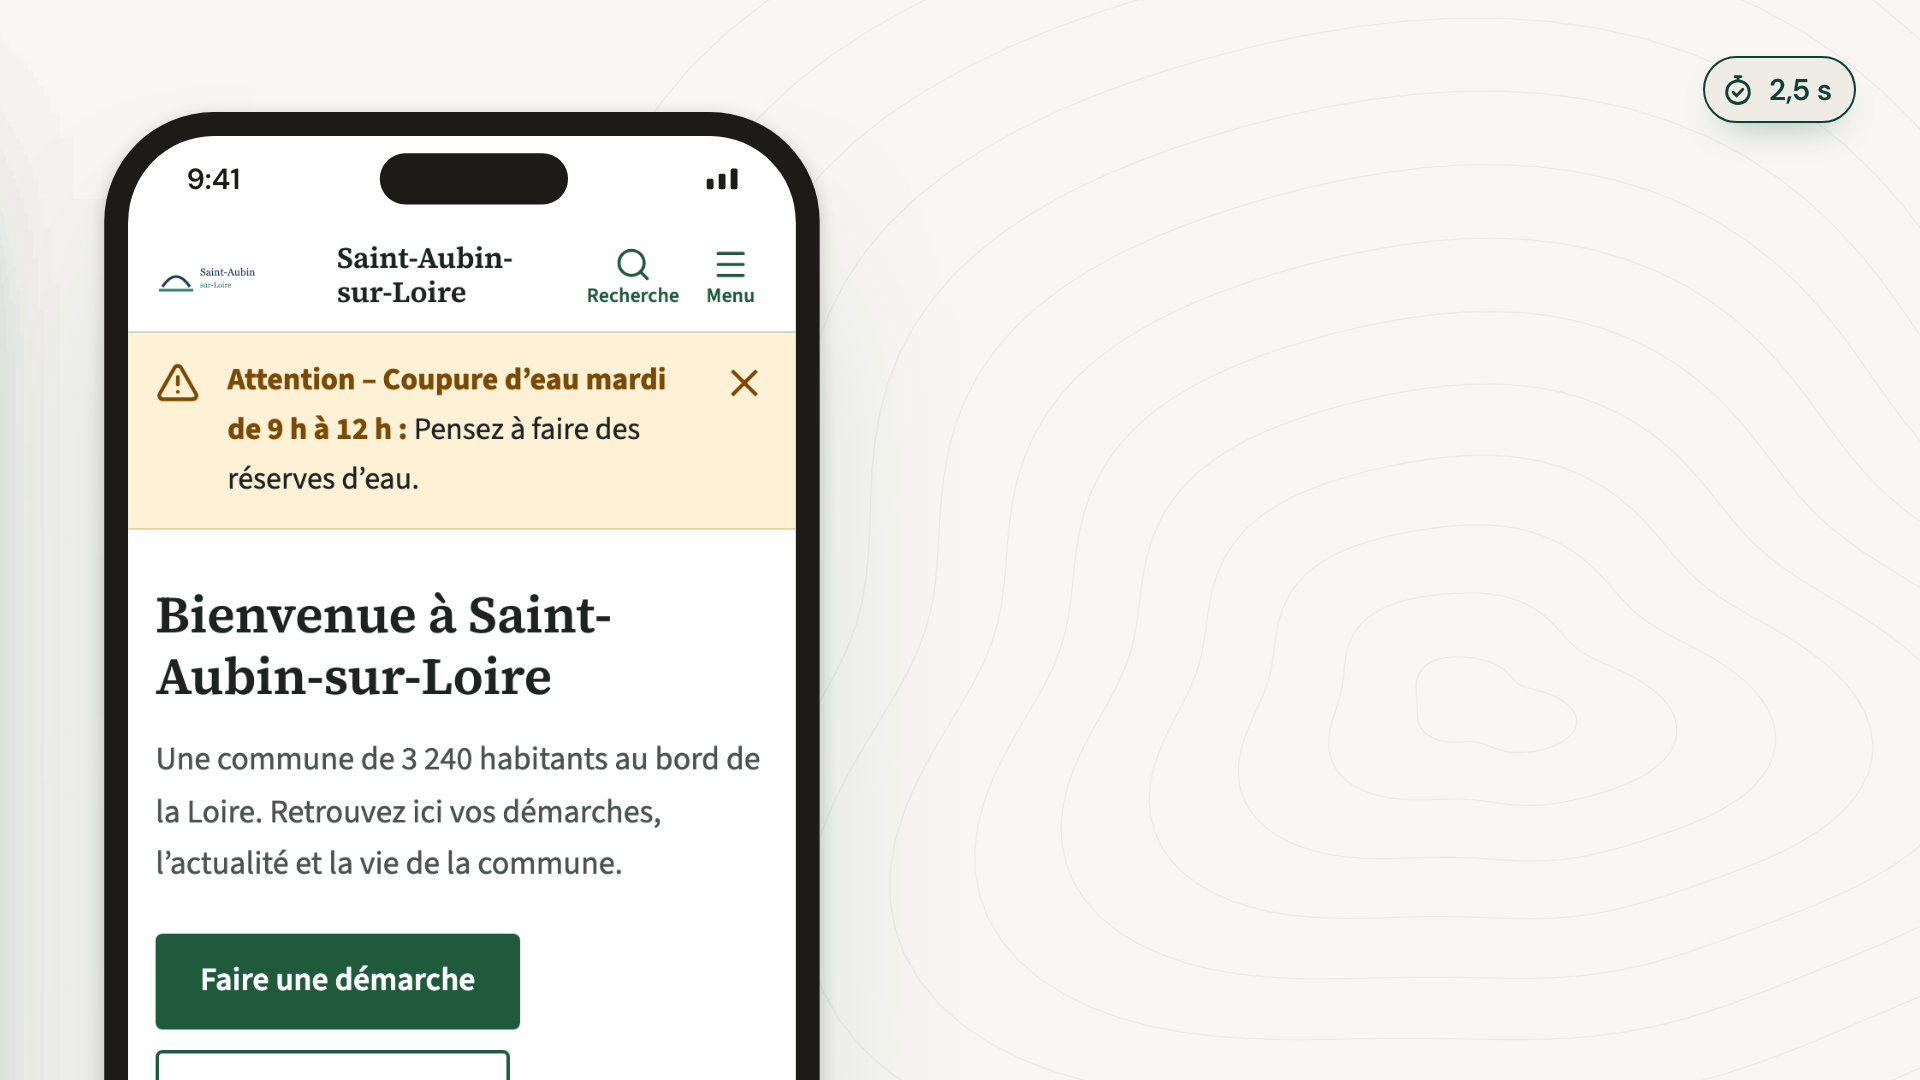
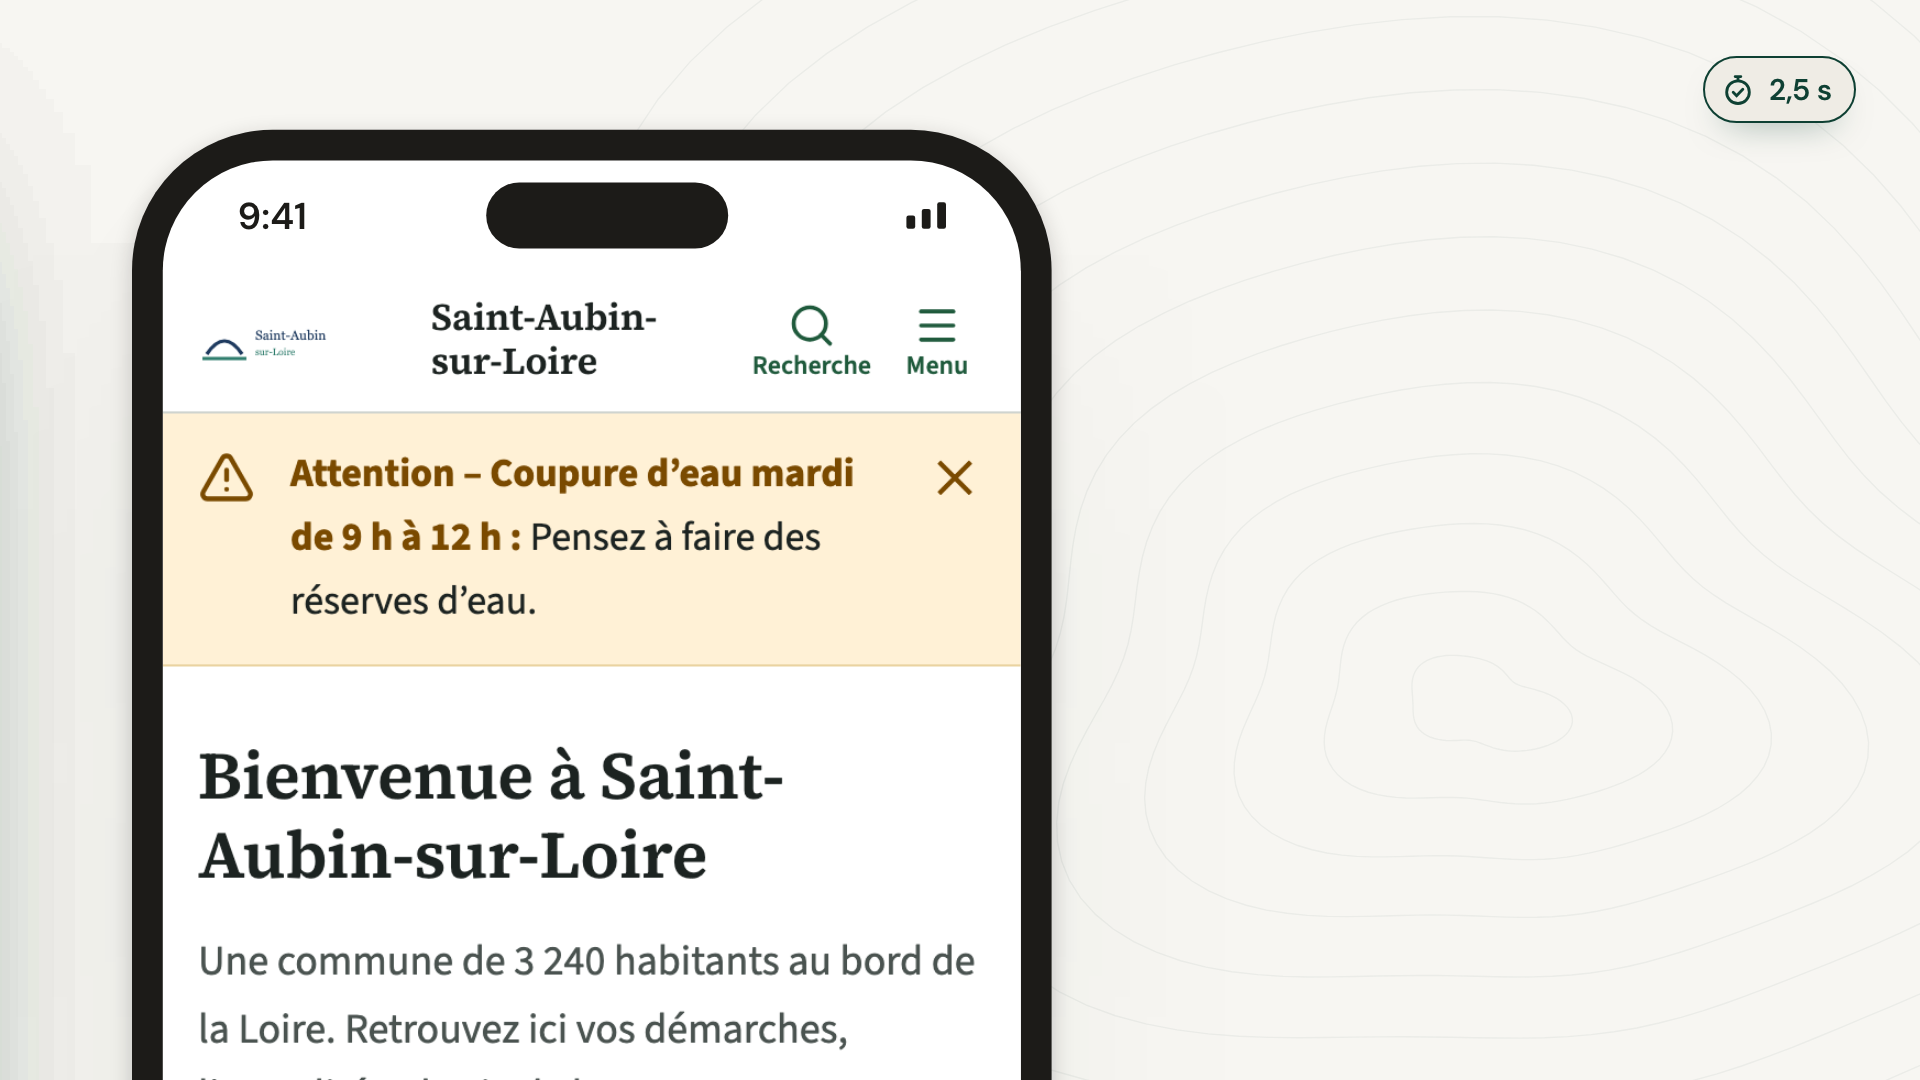
fix(videos): V2, fin plus vivante et « en moins d'une minute » (#315)
- Fin : gros plan sur le bandeau, retour à l'écran partagé, puis l'alerte en
  ligne dans la liste « Alertes et perturbations » de l'administration (capture
  alertes-liste, notification fermée), avec la légende du retrait automatique.
  Le chronomètre s'efface avant ce plan (Chronometre : option `jusqua`).
- Voix : « le bandeau apparaît en moins d'une minute » au lieu de « aussitôt »
  (l'API publique des alertes est mise en cache 60 s). Seule cette phrase est
  régénérée : `pnpm videos:voix <id> --segment <n>` garde les autres prises.

Claude-Session: https://claude.ai/code/session_01Nt9eDdGzjZFkF7eeL1ZaWD

Changed region(s): [[0.0312, 0.0917, 0.5625, 1.0], [0.125, 0.1833, 0.1562, 0.2139]]

diff --git a/v2/videos/src/videos/v2-alerte/Composition.tsx b/v2/videos/src/videos/v2-alerte/Composition.tsx
@@ -33,6 +33,7 @@ import alerteMessage from '../../../public/captures/v2-alerte/alerte-message.jso
 import alerteFin from '../../../public/captures/v2-alerte/alerte-fin.json';
 import alerteApercu from '../../../public/captures/v2-alerte/alerte-apercu.json';
 import alertePubliee from '../../../public/captures/v2-alerte/alerte-publiee.json';
+import alertesListe from '../../../public/captures/v2-alerte/alertes-liste.json';
 import siteSansAlerte from '../../../public/captures/v2-alerte/site-sans-alerte.json';
 import siteAvecAlerte from '../../../public/captures/v2-alerte/site-avec-alerte.json';
 
@@ -41,7 +42,7 @@ const C = <T,>(capture: T) => capture as unknown as Capture;
 const SEGMENTS = chronologie(script, timings as Timings);
 /** Image à `secondes` après le début du segment `i` */
 const a = (i: number, secondes: number) => SEGMENTS[i]!.de + Math.round(secondes * FPS);
-const vers = (de: number, duree: number, cadre: Rect | null): EtapeCamera => ({ de, a: de + Math.round(duree * FPS), cadre });
+const vers = (de: number, duree: number, cadre: Rect | null, bornes?: Rect): EtapeCamera => ({ de, a: de + Math.round(duree * FPS), cadre, bornes });
 
 // ---------------------------------------------------------------------------------------------------
 // Repères (secondes depuis le début du segment)
@@ -63,11 +64,15 @@ const T = {
   clicApercu: a(1, 4.4),
   recul: a(1, 4.9),
   clicPublier: a(1, 6.1),
-  // 2. Publiée ; le téléphone recharge la page, le bandeau apparaît
+  // 2. Publiée ; le téléphone recharge la page, le bandeau apparaît ; gros plan, puis l'écran partagé
   versTelephone: a(2, 0.4),
   rechargement: a(2, 1.6),
-  // 3. Gros plan sur le bandeau, la légende
-  versBandeau: a(3, 0.1),
+  grosPlan: a(2, 2.5),
+  // (l'administration, hors champ, a fermé sa notification)
+  liste: a(2, 3.0),
+  ecranPartage: a(2, 4.6),
+  // 3. L'alerte en ligne dans l'administration, son retrait automatique : la légende
+  versListe: a(3, 0.1),
   legende: a(3, 1.0),
 };
 const DUREE_RECHARGEMENT = 16;
@@ -110,10 +115,21 @@ const FORMULAIRE_BAS: Rect = { x: 470, y: nav(element(vide, 'message')).y - 30, 
  * cadre s'arrête dans l'écart entre les deux écrans, l'administration n'apparaît pas coupée au bord
  */
 const HAUT_TELEPHONE: Rect = { x: X_TEL - 20, y: Y_TEL - 10, width: 1040, height: 520 };
-/** Le bandeau, plus serré, avec à sa droite le fond où se pose la légende */
+/** Gros plan sur le bandeau ; la vue ne remonte pas sur l'administration (jamais d'écran coupé au bord) */
 const bandeau = surTelephone(element(telephoneAvec, 'bandeau'));
-const BANDEAU: Rect = { x: X_TEL - 20, y: bandeau.y - 110, width: 980, height: 330 };
-const POSITION_LEGENDE = versEcranPour(BANDEAU, { largeur: LARGEUR, hauteur: HAUTEUR }, MARGE)({ x: X_TEL + LARGEUR_TEL + 50, y: bandeau.y + bandeau.height / 2 });
+const BANDEAU: Rect = { x: bandeau.x - 40, y: bandeau.y - 90, width: bandeau.width + 80, height: bandeau.height + 180 };
+const A_DROITE_DE_L_ADMIN: Rect = { x: X_TEL - 60, y: -1000, width: 3000, height: 3000 };
+/**
+ * L'alerte en ligne dans la liste de l'administration, et sous elle la place de la légende. Cadre calculé
+ * pour montrer la carte entière sans la barre latérale (coupée au bord sinon) : vue de 1 008 px de large
+ * à partir du bord de la barre latérale.
+ */
+const liste = C(alertesListe);
+const carte = nav(element(liste, 'carte'));
+const BORD_BARRE_LATERALE = carte.x - 32;
+const SOUS_LA_BARRE_LATERALE: Rect = { x: BORD_BARRE_LATERALE, y: BARRE, width: liste.largeur - BORD_BARRE_LATERALE, height: VUE };
+const LISTE: Rect = { x: carte.x + carte.width / 2 - 467, y: carte.y - 40, width: 934, height: 400 };
+const POSITION_LEGENDE = versEcranPour(LISTE, { largeur: LARGEUR, hauteur: HAUTEUR }, MARGE, SOUS_LA_BARRE_LATERALE)({ x: carte.x, y: carte.y + carte.height + 56 });
 
 // ---------------------------------------------------------------------------------------------------
 
@@ -165,6 +181,7 @@ function Administration() {
       </BrowserFrame>
       <Ecran capture={C(alerteApercu)} de={APERCU} />
       <Ecran capture={C(alertePubliee)} de={PUBLIEE} />
+      <Ecran capture={liste} de={T.liste} />
     </div>
   );
 }
@@ -215,7 +232,9 @@ export function V2Alerte() {
           // Tout l'écran partagé, une fois l'aperçu affiché : la publication, le téléphone à côté
           vers(T.recul, 0.8, null),
           vers(T.versTelephone, 0.8, HAUT_TELEPHONE),
-          vers(T.versBandeau, 0.8, BANDEAU),
+          vers(T.grosPlan, 0.8, BANDEAU, A_DROITE_DE_L_ADMIN),
+          vers(T.ecranPartage, 0.8, null),
+          vers(T.versListe, 0.8, LISTE, SOUS_LA_BARRE_LATERALE),
         ]}
         superposition={(versEcran, echelle) => <Cursor points={curseur()} versEcran={versEcran} echelle={echelle} />}
       >
@@ -224,7 +243,7 @@ export function V2Alerte() {
           <Telephone />
         </div>
       </Camera>
-      <Chronometre de={T.clicPublier} a={BANDEAU_VISIBLE} />
+      <Chronometre de={T.clicPublier} a={BANDEAU_VISIBLE} jusqua={T.versListe} />
       <Callout texte="Retrait automatique mardi à 12 h" de={T.legende} position={{ x: POSITION_LEGENDE.x, y: POSITION_LEGENDE.y - 44 }} />
       <Musique id={script.id} segments={SEGMENTS} />
       <VoixOff timings={timings as Timings} segments={SEGMENTS} />

diff --git a/v2/videos/scripts/voix.ts b/v2/videos/scripts/voix.ts
@@ -9,11 +9,14 @@
  * dépôt principal).
  * Sans clé : déposer une piste public/voix/<vidéo>/voix.mp3 et lancer `pnpm videos:recaler <vidéo>`.
  *
+ * `--segment <n>` (n à partir de 1, répétable) : ne régénère que ce segment ; les autres gardent leur
+ * fichier déjà généré (même prise, même intonation), seules les heures sont recalées.
+ *
  * `--systeme` : voix PROVISOIRE de macOS (`say`, voix Thomas) pour caler le montage sans ElevenLabs ;
  * à remplacer avant publication (timings.json porte `source: 'systeme'`).
  */
 import { spawnSync } from 'node:child_process';
-import { mkdirSync, mkdtempSync, rmSync, writeFileSync } from 'node:fs';
+import { existsSync, mkdirSync, mkdtempSync, rmSync, writeFileSync } from 'node:fs';
 import { tmpdir } from 'node:os';
 import { join } from 'node:path';
 import { calerSurPhrases, couperEnPhrases, passagesParles, type Intervalle } from '../src/lib/calage';
@@ -31,6 +34,8 @@ try {
 
 const id = videoDemandee();
 const systeme = process.argv.includes('--systeme');
+/** Segments à régénérer (numérotés à partir de 1) ; vide : tous */
+const seuls = process.argv.flatMap((arg, i) => (process.argv[i - 1] === '--segment' ? [Number(arg)] : []));
 const cle = process.env.ELEVENLABS_API_KEY;
 const voix = process.env.ELEVENLABS_VOICE_ID;
 if (!systeme && (!cle || !voix)) {
@@ -75,6 +80,15 @@ for (const [i, segment] of script.segments.entries()) {
   }
   const fichier = join(dossier, `${String(i + 1).padStart(2, '0')}.mp3`);
   const texte = segment.prononciation ?? segment.voix;
+  if (seuls.length && !seuls.includes(i + 1) && existsSync(fichier)) {
+    // Prise conservée : sa durée et ses phrases sont relues
+    const duree = dureeAudio(fichier);
+    fichiers.push(`voix/${id}/${String(i + 1).padStart(2, '0')}.mp3`);
+    durees.push(duree);
+    heuresDesPhrases[i] = reperer(fichier, segment.voix, duree);
+    console.log(`= segment ${i + 1} (conservé) : ${duree.toFixed(2)} s`);
+    continue;
+  }
   if (systeme) {
     // Synthèse de macOS : WAV (le ffmpeg de Remotion ne lit pas l'AIFF), puis MP3
     const temp = mkdtempSync(join(tmpdir(), 'voix-'));

diff --git a/v2/videos/src/composants/Chronometre.tsx b/v2/videos/src/composants/Chronometre.tsx
@@ -1,17 +1,19 @@
 /**
  * Chronomètre discret dans un coin de l'image (repère de l'écran, il ne suit pas la caméra) : il
  * apparaît et démarre à l'image `de`, s'arrête à l'image `a` et reste affiché, en vert, avec le temps
- * écoulé. Il compte le temps réel de la vidéo : rien n'est accéléré.
+ * écoulé. Il compte le temps réel de la vidéo : rien n'est accéléré. `jusqua` : il s'efface à cette
+ * image (pour ne pas couvrir un plan suivant).
  */
 import { interpolate, spring, useCurrentFrame, useVideoConfig } from 'remotion';
 import { C, POLICES } from '../charte';
 
 const secondes = (images: number, fps: number) => `${(images / fps).toFixed(1).replace('.', ',')} s`;
 
-export function Chronometre({ de, a, haut = 56, droite = 64 }: { de: number; a: number; haut?: number; droite?: number }) {
+export function Chronometre({ de, a, jusqua, haut = 56, droite = 64 }: { de: number; a: number; jusqua?: number; haut?: number; droite?: number }) {
   const frame = useCurrentFrame();
   const { fps } = useVideoConfig();
-  if (frame < de) return null;
+  if (frame < de || (jusqua !== undefined && frame >= jusqua + 8)) return null;
+  const sortie = jusqua === undefined ? 1 : interpolate(frame, [jusqua, jusqua + 8], [1, 0], { extrapolateLeft: 'clamp', extrapolateRight: 'clamp' });
   const arrete = frame >= a;
   const ecoule = Math.min(frame, a) - de;
   const entree = spring({ frame: frame - de, fps, config: { damping: 16, stiffness: 160 } });
@@ -33,7 +35,7 @@ export function Chronometre({ de, a, haut = 56, droite = 64 }: { de: number; a: 
         background: C.papier,
         border: `2px solid ${arrete ? C.sapin : C.grege}`,
         boxShadow: '0 18px 36px -22px rgba(14, 64, 51, 0.5)',
-        opacity: entree,
+        opacity: entree * sortie,
         transform: `translateY(${(1 - entree) * -20}px) scale(${battement})`,
         fontFamily: POLICES.sans,
         fontWeight: 600,

diff --git a/v2/videos/src/videos/v2-alerte/script.ts b/v2/videos/src/videos/v2-alerte/script.ts
@@ -11,8 +11,8 @@ import type { ScriptVideo } from '../../lib/script';
 export const script: ScriptVideo = {
   id: 'v2-alerte',
   titre: 'Une alerte, de l’administration au téléphone',
-  // Le bandeau vient d'apparaître sur le téléphone, l'administration à côté
-  apercu: { segment: 2, apres: 3.2 },
+  // Gros plan sur le bandeau qui vient d'apparaître sur le téléphone
+  apercu: { segment: 2, apres: 3.6 },
   finale: 0.5,
   // Musique à 100 temps/min : chaque segment tombe sur un temps
   tempo: 100,
@@ -32,14 +32,14 @@ export const script: ScriptVideo = {
     {
       debut: 11.4,
       fin: 16.8,
-      voix: 'Sur leur téléphone, le bandeau apparaît aussitôt, sans remettre le site en ligne.',
-      ecran: 'L’administration confirme « Alerte publiée ». Le téléphone recharge la page : le bandeau « Attention – Coupure d’eau mardi de 9 h à 12 h » apparaît en haut du site. Le chronomètre s’arrête.',
+      voix: 'Sur leur téléphone, le bandeau apparaît en moins d’une minute, sans remettre le site en ligne.',
+      ecran: 'L’administration confirme « Alerte publiée ». Le téléphone recharge la page : le bandeau « Attention – Coupure d’eau mardi de 9 h à 12 h » apparaît en haut du site, le chronomètre s’arrête. Gros plan sur le bandeau, puis retour à l’écran partagé.',
     },
     {
       debut: 16.8,
       fin: 19.8,
       voix: 'Il disparaît tout seul à la date de fin.',
-      ecran: 'Gros plan sur le bandeau du téléphone, avec la légende « Retrait automatique mardi à 12 h ».',
+      ecran: 'Dans l’administration, la liste « Alertes et perturbations » : l’alerte est active, affichée du lundi 5 octobre à 16 h au mardi 6 octobre à 12 h. Légende « Retrait automatique mardi à 12 h ».',
     },
   ],
 };

diff --git a/v2/videos/src/videos/v2-alerte/captures.ts b/v2/videos/src/videos/v2-alerte/captures.ts
@@ -149,6 +149,19 @@ export const captures: Plan[] = [
     toast: (p) => p.getByText(/Alerte publiée/).first(),
     ligne: (p) => p.locator('main').getByText(ALERTE.titre).first(),
   }),
+  // La liste, une fois la notification fermée : l'alerte en ligne et ses dates d'affichage
+  nouvelleAlerte(
+    'alertes-liste',
+    async (page) => {
+      await publiee(page);
+      await page.getByRole('button', { name: 'Fermer la notification' }).click();
+      await page.getByText(/Alerte publiée/).waitFor({ state: 'hidden' });
+    },
+    {
+      titre: (p) => p.getByRole('heading', { level: 1 }),
+      carte: (p) => p.locator('main').getByText(ALERTE.titre).first().locator('xpath=ancestor::*[contains(@class, "border")][1]'),
+    },
+  ),
 
   telephone('site-sans-alerte', []),
   telephone('site-avec-alerte', [alertePubliee]),

diff --git a/v2/contenus-site/videos/v2-alerte-transcription.md b/v2/contenus-site/videos/v2-alerte-transcription.md
@@ -8,10 +8,10 @@ _À l'écran : Écran partagé : à gauche l’écran « Nouvelle alerte » de l
 
 _À l'écran : On choisit la sévérité « Attention », on écrit le message « Pensez à faire des réserves d’eau. », on règle la fin au mardi 6 octobre à 12 h, puis l’aperçu du bandeau et « Publier l’alerte ». Un chronomètre démarre dans le coin._
 
-**0:11**. « Sur leur téléphone, le bandeau apparaît aussitôt, sans remettre le site en ligne. »
+**0:11**. « Sur leur téléphone, le bandeau apparaît en moins d’une minute, sans remettre le site en ligne. »
 
-_À l'écran : L’administration confirme « Alerte publiée ». Le téléphone recharge la page : le bandeau « Attention – Coupure d’eau mardi de 9 h à 12 h » apparaît en haut du site. Le chronomètre s’arrête._
+_À l'écran : L’administration confirme « Alerte publiée ». Le téléphone recharge la page : le bandeau « Attention – Coupure d’eau mardi de 9 h à 12 h » apparaît en haut du site, le chronomètre s’arrête. Gros plan sur le bandeau, puis retour à l’écran partagé._
 
 **0:17**. « Il disparaît tout seul à la date de fin. »
 
-_À l'écran : Gros plan sur le bandeau du téléphone, avec la légende « Retrait automatique mardi à 12 h »._
+_À l'écran : Dans l’administration, la liste « Alertes et perturbations » : l’alerte est active, affichée du lundi 5 octobre à 16 h au mardi 6 octobre à 12 h. Légende « Retrait automatique mardi à 12 h »._
